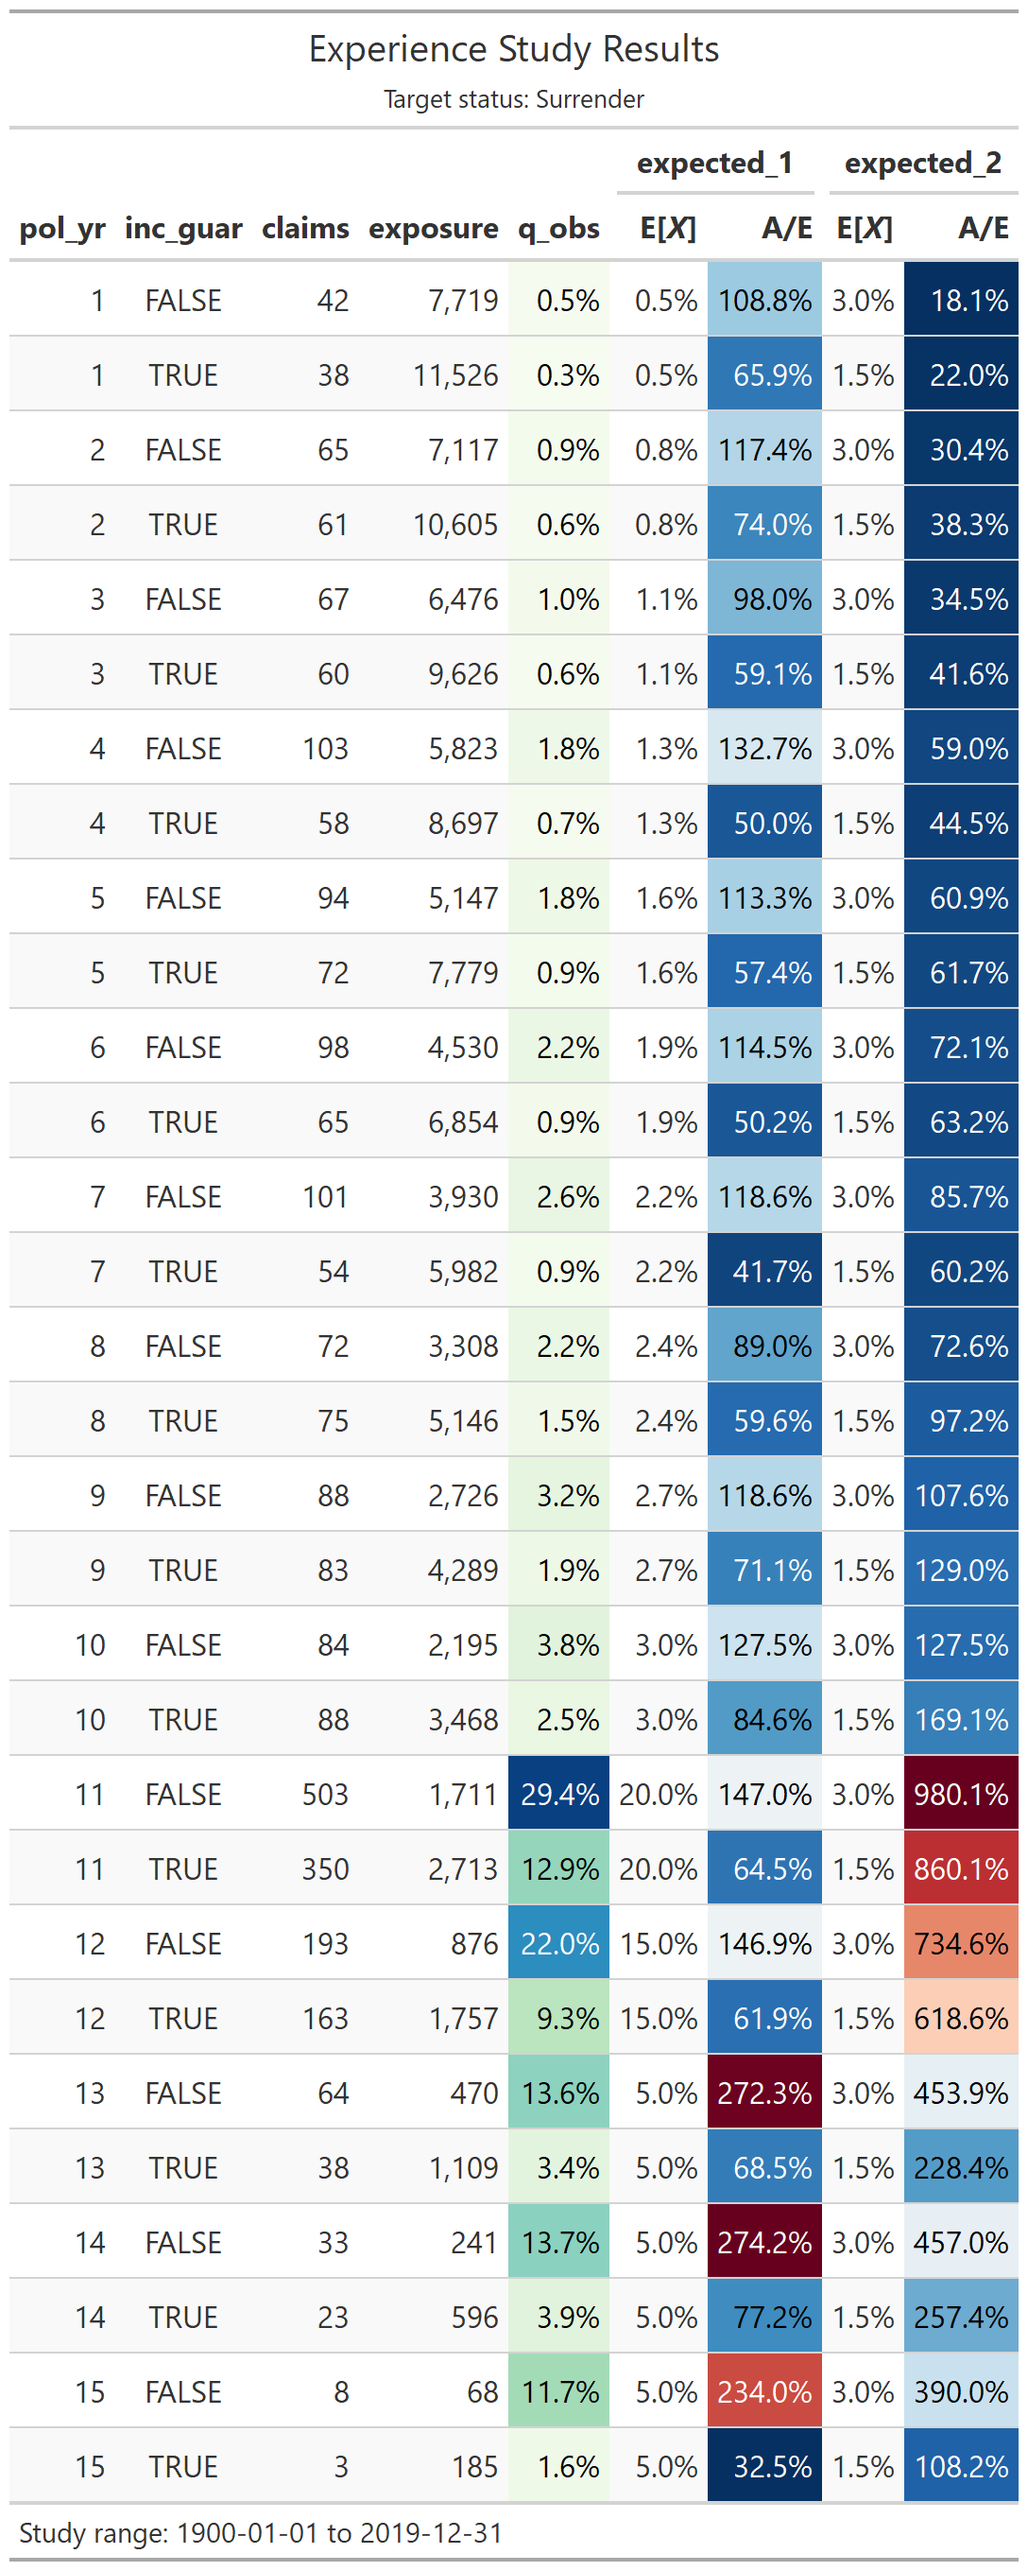
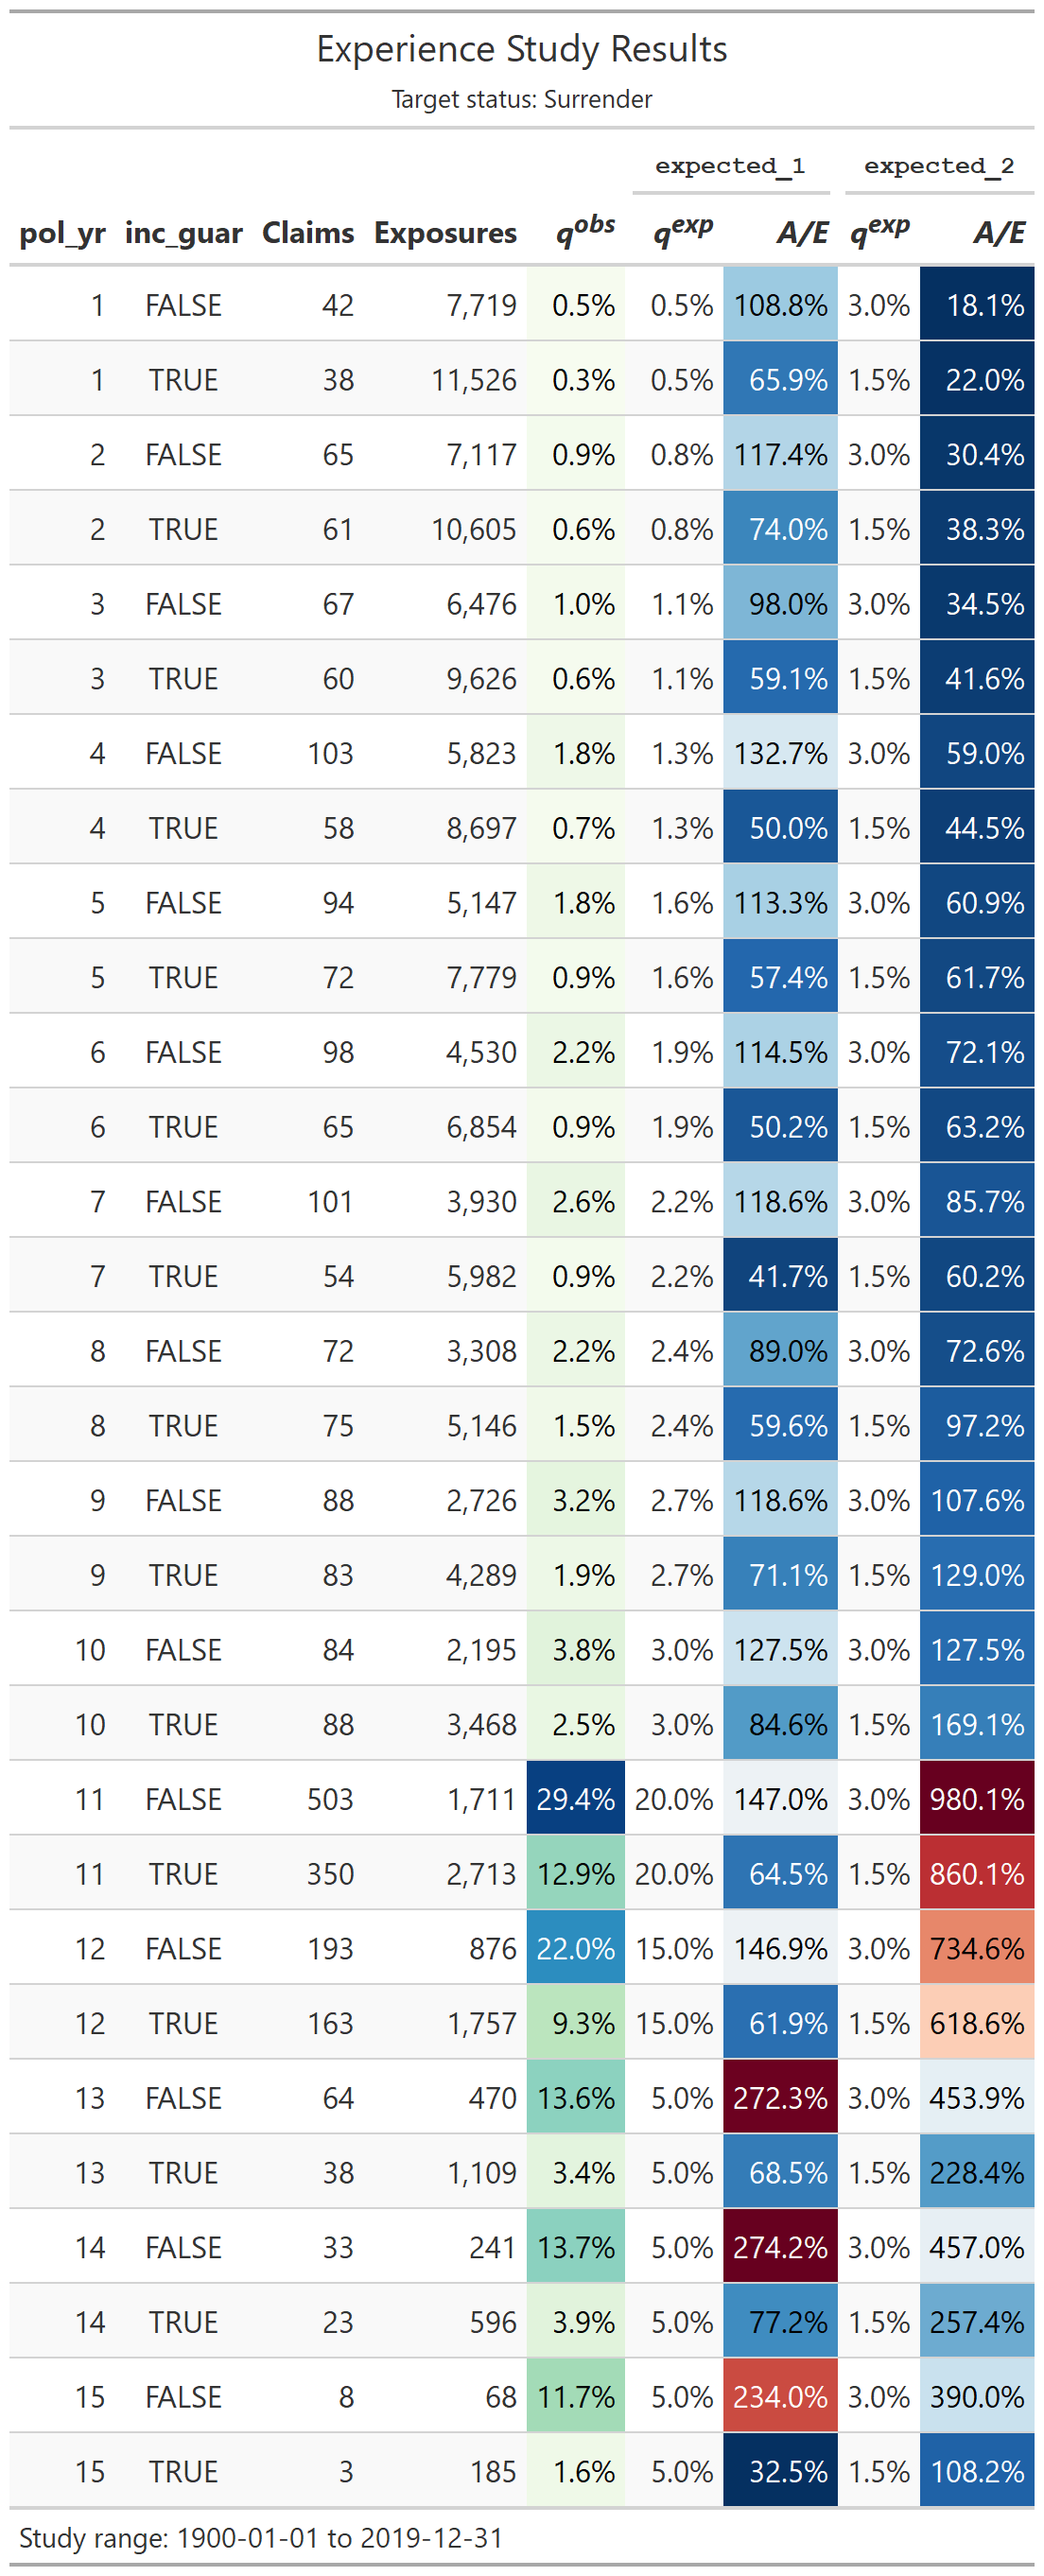
readme update

Changed region(s): [[0.0312, 0.0, 1.0, 0.9886], [0.0625, 0.6179, 0.0938, 0.8032]]

diff --git a/README.md b/README.md
@@ -144,10 +144,10 @@ exp_stats(exposed_data)
 #>  Target status: Surrender 
 #>  Study range: 1900-01-01 to 2019-12-31 
 #> 
-#> # A tibble: 1 x 3
-#>   claims exposure  q_obs
-#> *  <int>    <dbl>  <dbl>
-#> 1   2846  132669. 0.0215
+#> # A tibble: 1 x 4
+#>   n_claims claims exposure  q_obs
+#> *    <int>  <int>    <dbl>  <dbl>
+#> 1     2846   2846  132669. 0.0215
 ```
 
 ### Grouped experience data
@@ -169,19 +169,19 @@ exp_res
 #>  Target status: Surrender 
 #>  Study range: 1900-01-01 to 2019-12-31 
 #> 
-#> # A tibble: 30 x 5
-#>    pol_yr inc_guar claims exposure   q_obs
-#>  *  <int> <lgl>     <int>    <dbl>   <dbl>
-#>  1      1 FALSE        42    7719. 0.00544
-#>  2      1 TRUE         38   11526. 0.00330
-#>  3      2 FALSE        65    7117. 0.00913
-#>  4      2 TRUE         61   10605. 0.00575
-#>  5      3 FALSE        67    6476. 0.0103 
-#>  6      3 TRUE         60    9626. 0.00623
-#>  7      4 FALSE       103    5823. 0.0177 
-#>  8      4 TRUE         58    8697. 0.00667
-#>  9      5 FALSE        94    5147. 0.0183 
-#> 10      5 TRUE         72    7779. 0.00926
+#> # A tibble: 30 x 6
+#>    pol_yr inc_guar n_claims claims exposure   q_obs
+#>  *  <int> <lgl>       <int>  <int>    <dbl>   <dbl>
+#>  1      1 FALSE          42     42    7719. 0.00544
+#>  2      1 TRUE           38     38   11526. 0.00330
+#>  3      2 FALSE          65     65    7117. 0.00913
+#>  4      2 TRUE           61     61   10605. 0.00575
+#>  5      3 FALSE          67     67    6476. 0.0103 
+#>  6      3 TRUE           60     60    9626. 0.00623
+#>  7      4 FALSE         103    103    5823. 0.0177 
+#>  8      4 TRUE           58     58    8697. 0.00667
+#>  9      5 FALSE          94     94    5147. 0.0183 
+#> 10      5 TRUE           72     72    7779. 0.00926
 #> # ... with 20 more rows
 ```
 
@@ -211,20 +211,21 @@ exp_res
 #>  Study range: 1900-01-01 to 2019-12-31 
 #>  Expected values: expected_1, expected_2 
 #> 
-#> # A tibble: 30 x 9
-#>    pol_yr inc_guar claims exposure   q_obs expected_1 expected_2 ae_expected_1
-#>  *  <int> <lgl>     <int>    <dbl>   <dbl>      <dbl>      <dbl>         <dbl>
-#>  1      1 FALSE        42    7719. 0.00544    0.005        0.03          1.09 
-#>  2      1 TRUE         38   11526. 0.00330    0.005        0.015         0.659
-#>  3      2 FALSE        65    7117. 0.00913    0.00778      0.03          1.17 
-#>  4      2 TRUE         61   10605. 0.00575    0.00778      0.015         0.740
-#>  5      3 FALSE        67    6476. 0.0103     0.0106       0.03          0.980
-#>  6      3 TRUE         60    9626. 0.00623    0.0106       0.015         0.591
-#>  7      4 FALSE       103    5823. 0.0177     0.0133       0.03          1.33 
-#>  8      4 TRUE         58    8697. 0.00667    0.0133       0.015         0.500
-#>  9      5 FALSE        94    5147. 0.0183     0.0161       0.03          1.13 
-#> 10      5 TRUE         72    7779. 0.00926    0.0161       0.015         0.574
-#> # ... with 20 more rows, and 1 more variable: ae_expected_2 <dbl>
+#> # A tibble: 30 x 10
+#>    pol_yr inc_guar n_claims claims exposure   q_obs expected_1 expected_2
+#>  *  <int> <lgl>       <int>  <int>    <dbl>   <dbl>      <dbl>      <dbl>
+#>  1      1 FALSE          42     42    7719. 0.00544    0.005        0.03 
+#>  2      1 TRUE           38     38   11526. 0.00330    0.005        0.015
+#>  3      2 FALSE          65     65    7117. 0.00913    0.00778      0.03 
+#>  4      2 TRUE           61     61   10605. 0.00575    0.00778      0.015
+#>  5      3 FALSE          67     67    6476. 0.0103     0.0106       0.03 
+#>  6      3 TRUE           60     60    9626. 0.00623    0.0106       0.015
+#>  7      4 FALSE         103    103    5823. 0.0177     0.0133       0.03 
+#>  8      4 TRUE           58     58    8697. 0.00667    0.0133       0.015
+#>  9      5 FALSE          94     94    5147. 0.0183     0.0161       0.03 
+#> 10      5 TRUE           72     72    7779. 0.00926    0.0161       0.015
+#> # ... with 20 more rows, and 2 more variables: ae_expected_1 <dbl>,
+#> #   ae_expected_2 <dbl>
 ```
 
 ### `autoplot()` and `autotable()`
@@ -266,10 +267,11 @@ summary(exp_res)
 #>  Study range: 1900-01-01 to 2019-12-31 
 #>  Expected values: expected_1, expected_2 
 #> 
-#> # A tibble: 1 x 7
-#>   claims exposure  q_obs expected_1 expected_2 ae_expected_1 ae_expected_2
-#> *  <int>    <dbl>  <dbl>      <dbl>      <dbl>         <dbl>         <dbl>
-#> 1   2846  132669. 0.0215     0.0242     0.0209         0.885          1.03
+#> # A tibble: 1 x 8
+#>   n_claims claims exposure  q_obs expected_1 expected_2 ae_expected_1
+#> *    <int>  <int>    <dbl>  <dbl>      <dbl>      <dbl>         <dbl>
+#> 1     2846   2846  132669. 0.0215     0.0242     0.0209         0.885
+#> # ... with 1 more variable: ae_expected_2 <dbl>
 ```
 
 If additional variables are passed to `...`, these variables become
@@ -284,10 +286,10 @@ summary(exp_res, inc_guar)
 #>  Study range: 1900-01-01 to 2019-12-31 
 #>  Expected values: expected_1, expected_2 
 #> 
-#> # A tibble: 2 x 8
-#>   inc_guar claims exposure  q_obs expected_1 expected_2 ae_expected_1
-#> * <lgl>     <int>    <dbl>  <dbl>      <dbl>      <dbl>         <dbl>
-#> 1 FALSE      1615   52338. 0.0309     0.0234      0.03          1.32 
-#> 2 TRUE       1231   80331. 0.0153     0.0248      0.015         0.619
+#> # A tibble: 2 x 9
+#>   inc_guar n_claims claims exposure  q_obs expected_1 expected_2 ae_expected_1
+#> * <lgl>       <int>  <int>    <dbl>  <dbl>      <dbl>      <dbl>         <dbl>
+#> 1 FALSE        1615   1615   52338. 0.0309     0.0234      0.03          1.32 
+#> 2 TRUE         1231   1231   80331. 0.0153     0.0248      0.015         0.619
 #> # ... with 1 more variable: ae_expected_2 <dbl>
 ```
